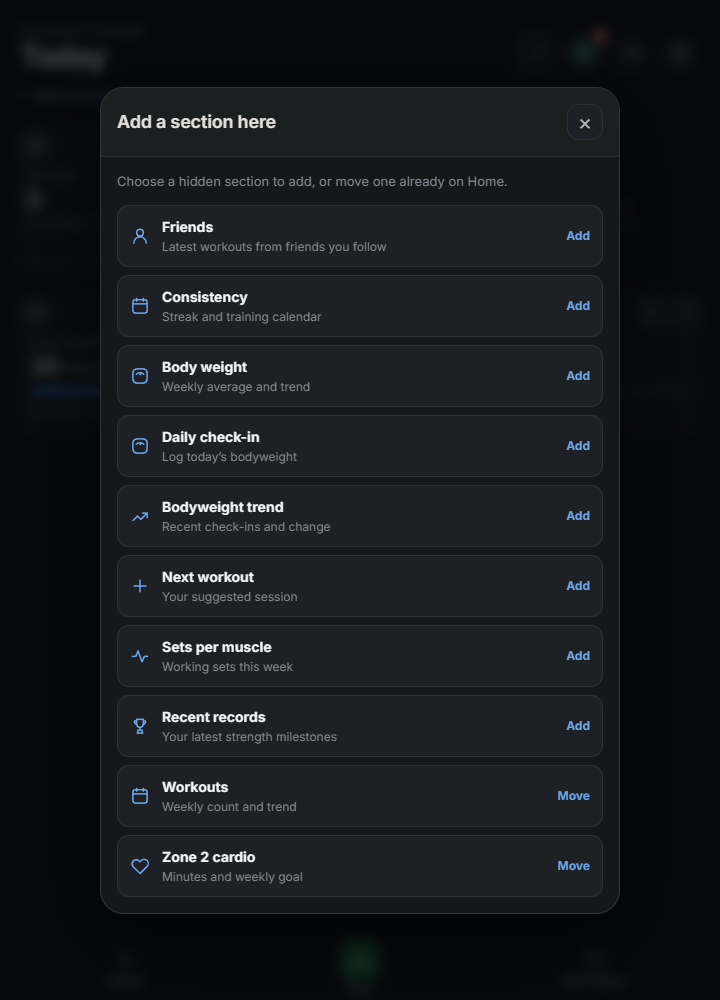
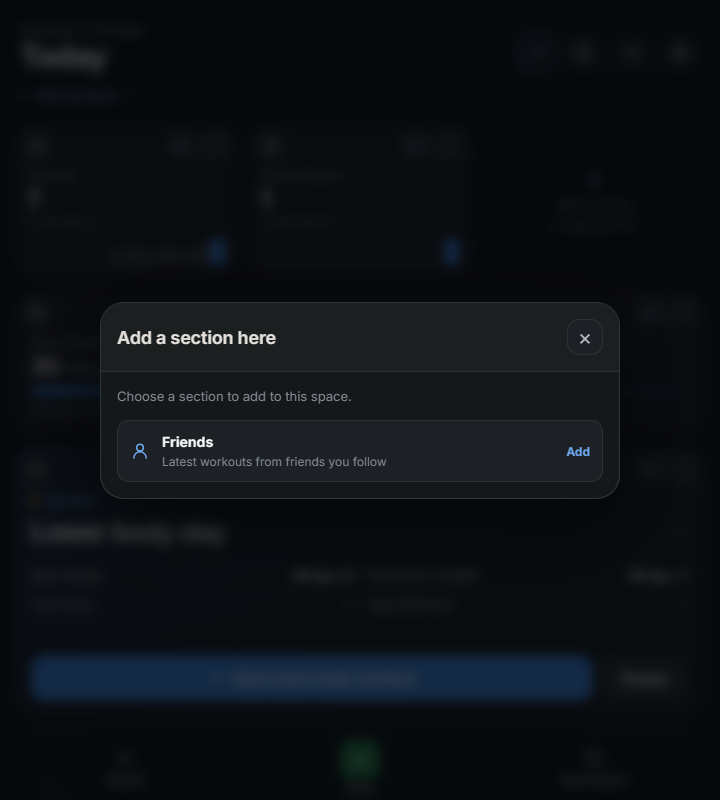
Show only missing sections in the Home space picker

diff --git a/frontend/src/HomeLayoutSections.tsx b/frontend/src/HomeLayoutSections.tsx
@@ -42,7 +42,7 @@ export function HomeLayoutSections({
   edit?: HomeEditActions;
 }) {
   const visible = layout.order.filter((id) => !layout.hidden.includes(id) && sections[id] != null);
-  const hidden = layout.order.filter((id) => layout.hidden.includes(id));
+  const hidden = layout.order.filter((id) => layout.hidden.includes(id) && sections[id] != null);
   const spans = homeSectionSpans(visible, layout.widths);
   const gaps = homeSectionGaps(visible, spans);
   const [dragging, setDragging] = useState<HomeSectionId | null>(null);
@@ -290,7 +290,7 @@ export function HomeLayoutSections({
               <button
                 type="button"
                 disabled={busy}
-                aria-label={`Add or move a section after ${titleFor(id)}`}
+                aria-label={`Add a section after ${titleFor(id)}`}
                 onClick={() => setAddingTo({ after: id, span: gaps.get(id)! })}
                 data-home-drop-after={id}
                 data-home-drop-span={gaps.get(id)}
@@ -319,36 +319,35 @@ export function HomeLayoutSections({
           onClose={() => setAddingTo(null)}
         >
           <div className="home-section-options">
-            <p>Choose a hidden section to add, or move one already on Home.</p>
-            {[...hidden, ...visible]
-              .filter((id) => id !== addingTo.after && sections[id] != null)
-              .map((id) => {
-                const section = HOME_SECTIONS.find((item) => item.id === id)!;
-                const isHidden = layout.hidden.includes(id);
-                return (
-                  <button
-                    type="button"
-                    className="home-section-choice"
-                    key={id}
-                    disabled={busy}
-                    aria-label={`${isHidden ? 'Add' : 'Move'} ${section.title} here`}
-                    onClick={() => {
-                      edit.onChange(fillHomeSectionGap(layout, id, addingTo.after, addingTo.span));
-                      setAnnouncement(
-                        `${section.title} ${isHidden ? 'added' : 'moved'} after ${titleFor(addingTo.after)}.`,
-                      );
-                      setAddingTo(null);
-                    }}
-                  >
-                    <Icon name={section.icon} />
-                    <span>
-                      <strong>{section.title}</strong>
-                      <small>{section.description}</small>
-                    </span>
-                    <b>{isHidden ? 'Add' : 'Move'}</b>
-                  </button>
-                );
-              })}
+            <p>
+              {hidden.length
+                ? 'Choose a section to add to this space.'
+                : 'All available sections are already on Home.'}
+            </p>
+            {hidden.map((id) => {
+              const section = HOME_SECTIONS.find((item) => item.id === id)!;
+              return (
+                <button
+                  type="button"
+                  className="home-section-choice"
+                  key={id}
+                  disabled={busy}
+                  aria-label={`Add ${section.title} here`}
+                  onClick={() => {
+                    edit.onChange(fillHomeSectionGap(layout, id, addingTo.after, addingTo.span));
+                    setAnnouncement(`${section.title} added after ${titleFor(addingTo.after)}.`);
+                    setAddingTo(null);
+                  }}
+                >
+                  <Icon name={section.icon} />
+                  <span>
+                    <strong>{section.title}</strong>
+                    <small>{section.description}</small>
+                  </span>
+                  <b>Add</b>
+                </button>
+              );
+            })}
           </div>
         </PopupDialog>
       )}

diff --git a/frontend/src/HomeLayoutSections.drag.test.tsx b/frontend/src/HomeLayoutSections.drag.test.tsx
@@ -153,6 +153,9 @@ describe('Home empty-space dragging', () => {
         .click(),
     );
     expect(document.querySelector('.home-section-picker')).not.toBeNull();
+    expect(document.querySelectorAll('.home-section-picker .home-section-choice')).toHaveLength(1);
+    expect(document.querySelector('.home-section-picker')!.textContent).not.toContain('Move');
+    expect(document.querySelector('[aria-label="Add Workouts here"]')).toBeNull();
     await act(async () =>
       document.querySelector<HTMLButtonElement>('[aria-label="Add Friends here"]')!.click(),
     );
@@ -164,23 +167,18 @@ describe('Home empty-space dragging', () => {
     expect(container.querySelectorAll('[data-home-section="friends"]')).toHaveLength(1);
     expect(document.querySelector('.home-section-picker')).toBeNull();
   });
-  it('moves an existing section from the chooser and closes it without edits when cancelled', async () => {
+  it('shows an empty state when all sections are added and closes without changing the draft', async () => {
     const gap = container.querySelector<HTMLButtonElement>('[data-home-drop-after="consistency"]')!;
     await act(async () => gap.click());
+    expect(document.querySelectorAll('.home-section-picker .home-section-choice')).toHaveLength(0);
+    expect(document.querySelector('.home-section-picker')!.textContent).toContain(
+      'All available sections are already on Home.',
+    );
     await act(async () =>
       document.querySelector<HTMLButtonElement>('[aria-label="Close Add a section here"]')!.click(),
     );
     expect(changed).not.toHaveBeenCalled();
-    await act(async () => gap.click());
-    await act(async () =>
-      document.querySelector<HTMLButtonElement>('[aria-label="Move Zone 2 cardio here"]')!.click(),
-    );
-    expect(changed.mock.lastCall![0].order).toEqual([
-      'consistency',
-      'zone2',
-      'friends',
-      'bodyweight-trend',
-    ]);
+    expect(document.querySelector('.home-section-picker')).toBeNull();
   });
   it('cancels a highlighted drop without changing the draft', async () => {
     const handle = await begin('friends');

diff --git a/docs/RELEASE-NOTES.md b/docs/RELEASE-NOTES.md
@@ -60,9 +60,10 @@
 - In **Edit Home**, drag a section into an empty space beside another card. Expanded cards
   automatically shrink to compact width when dropped into a smaller space. Dotted targets
   highlight spaces that fit the compact card, and its new width stays after saving.
-- Empty spaces now show a plus: tap one to choose a hidden section to add or move an existing
-  section there. Sections fit the chosen space, including a third-width slot. Dragging into
-  those spaces still works. Tap the top pencil again to **save** the layout; the bottom
+- Empty spaces now show a plus: tap one to choose a section that is not already on Home.
+  Only hidden sections appear; when all available sections are added, the picker explains
+  that there are none left to add. Sections fit the chosen space, including a third-width
+  slot. Dragging into those spaces still works. Tap the top pencil again to **save** the layout; the bottom
   **Cancel** button discards changes. A failed save retains the draft for retry.
 - Profile sharing has one button under the three options: **Make my profile private**,
   **Make my profile friends only** or **Make my profile public**, matching your choice. It
@@ -207,10 +208,10 @@ Release-note dates remain visible when a version's changes are folded.
 Mixed compact cards fill unusable single-column strips while preserving spaces large enough
 for another card. Captured with synthetic sample data in the isolated verification environment.
 
-<img src="screenshots/releases/0.6.6-home-section-picker.png" alt="Add a section here picker with hidden cards to add and existing cards to move into the tapped space." width="720">
+<img src="screenshots/releases/0.6.6-home-section-picker.png" alt="Add a section here picker showing only Friends, the one section not already on this sample Home layout." width="720">
 
-Tap an empty space's plus to choose a section for that position. Hidden sections show **Add**;
-sections already on Home show **Move**.
+Tap an empty space's plus to add a missing section in that position. This sample layout
+already has every available section except Friends, so only Friends appears.
 
 <img src="screenshots/releases/0.6.6-home-section-saved.png" alt="Friends added as the third card beside Workouts and Cardio sessions, after the top pencil saved the layout." width="720">
 
